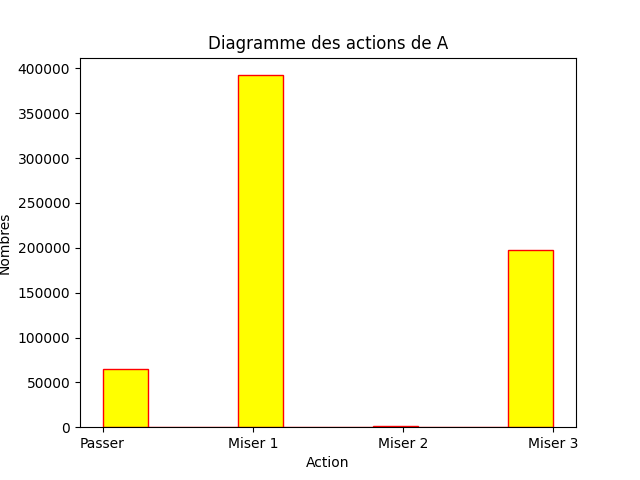
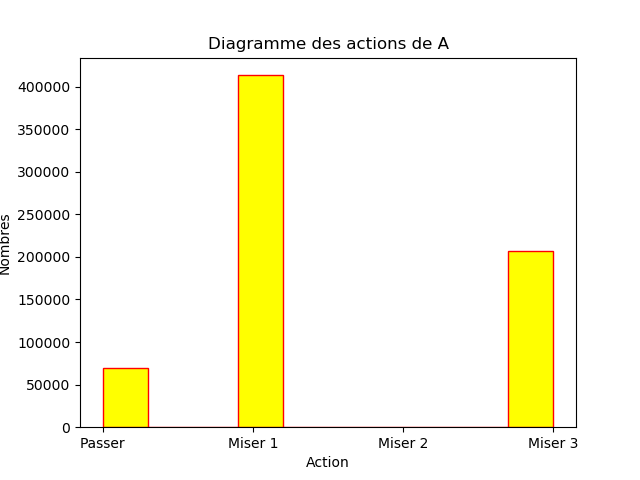
Graphiques sur l'évolution du système

diff --git a/Stats.py b/Stats.py
@@ -1,0 +1,110 @@
+#import Poker
+import matplotlib.pyplot as pyplot
+
+class table:
+	def __init__(self):
+		self.carte_alice=list()
+		self.carte_bob=list()
+		self.action_alice=list()
+		self.action_bob=list()
+		self.resultat=list()
+		self.nb_tours=0
+		self.nb_bluff=0
+	
+	def update(self, j, action_a, action_b, res):
+		self.nb_tours+=1
+		self.carte_alice.append(j.joueurA.carte)
+		self.carte_alice.append(j.joueurA.carte)
+		
+		if action_a==0:
+			action_b=-1
+		self.action_alice.append(action_a)
+		self.action_bob.append(action_b)
+		self.resultat.append(res)
+	
+	def fin_partie(self, bluff):
+		self.nb_bluff=bluff
+
+class tables:
+	def __init__(self,n):
+		self.nb_parties=n
+		self.parties=list()
+		self.nb_tours=list()
+		self.current_table=table()
+		self.bluff=list()
+		self.cadrage=list()
+		self.current=0
+		
+		self.init_cadrage()
+		
+	def update(self, j, action_a, action_b, res):
+		self.current_table.update(j, action_a, action_b, res)
+		
+	def fin_partie(self, bluff):
+		self.current_table.fin_partie(bluff)
+		self.parties.append(self.current_table)
+		self.current_table=table()
+	
+	def liste_simple(self, liste):
+		"""Transforme une liste de listes en liste simple"""
+		res=liste
+		while len(res)>1:
+			tmp=res[0]
+			del res[0]
+			res[0]=tmp+res[0]
+		return res[0]
+		
+	def init_cadrage(self):
+		for i in range(0,self.nb_parties):
+			self.cadrage.append(i)
+	
+	def calcul_nb_tours(self):
+		for i in range(0,self.nb_parties):
+			self.nb_tours.append(self.parties[i].nb_tours)
+	
+	def calcul_bluff(self):
+		for i in range(0,self.nb_parties):
+			self.bluff.append(float(self.parties[i].nb_bluff)/float(self.parties[i].nb_tours))
+	
+	def show_nb_tours(self):
+		self.calcul_nb_tours()
+		pyplot.scatter(self.cadrage, self.nb_tours)
+		pyplot.title("Tours nécessaires à l'élimination de Alice")
+		pyplot.xlabel('Parties jouées')
+		pyplot.ylabel('Nombre de tours')
+		pyplot.xticks([0, self.nb_parties/2, self.nb_parties])
+		pyplot.savefig("ressources/stats/durée_jeu.png")
+		pyplot.show()
+	
+	def show_nb_bluffs(self):
+		self.calcul_bluff()
+		pyplot.plot(self.bluff)
+		pyplot.title("Evolution du nombre de bluffs")
+		pyplot.xlabel('Parties jouées')
+		pyplot.ylabel('Nombre de bluffs')
+		pyplot.xticks([0, self.nb_parties/2, self.nb_parties])
+		pyplot.savefig("ressources/stats/nombre_bluffs.png")
+		pyplot.show()
+		
+	def show_actions_alice(self, i):
+		pyplot.hist(self.parties[i].action_alice)
+		pyplot.title("Actions de Alice")
+		pyplot.xlabel('Action')
+		pyplot.ylabel('Nombres')
+		pyplot.xticks([0, 1, 2, 3], ["Passer", "Miser 1", "Miser 2", "Miser 3"])
+		pyplot.savefig("ressources/stats/alice_"+str(i+1)+".png")
+		pyplot.show()
+		
+	def show_actions_bob(self, i):
+		pyplot.hist(self.parties[i].action_bob)
+		pyplot.title("Actions de Bob")
+		pyplot.xlabel('Action')
+		pyplot.ylabel('Nombres')
+		pyplot.xticks([0, 1, 2], ["Alice Passe", "Passer", "Suivre"])
+		pyplot.savefig("ressources/stats/bob_"+str(i+1)+".png")
+		pyplot.show()
+			
+def main():
+	t=table()
+	t.update(Poker.Jeu(),1,1,1)
+	print("ok")

diff --git a/Poker.py b/Poker.py
@@ -5,6 +5,7 @@ import random
 from time import time
 import matplotlib.pyplot as plt
 import numpy as np
+import Stats
 
 import pygame # a supprimer
 	
@@ -151,6 +152,8 @@ class Jeu:
 		alpha = 0.0001
 		gamma = 0.001
 		epsilon = 0
+		
+		res=0
 	### Distribution des cartes ###
 		acb = 2
 		self.tirer()
@@ -167,6 +170,7 @@ class Jeu:
 			miseB = self.joueurB.ActionsVal(acb, actionA)
 			if(miseB == 0):### B Passe ###
 				self.joueurA.ActualiserSolde(self.pot)
+				res=1
         
 			else:### B suis ###
 				self.pot += miseB
@@ -174,17 +178,23 @@ class Jeu:
 			### On retourne les cartes ###
 				if (self.carteA > self.carteB):
 					self.joueurA.ActualiserSolde(self.pot)
+					res=1
 				elif (self.carteB > self.carteA):
 					self.joueurB.ActualiserSolde(self.pot)
+					res=-1
 				else:
 					self.joueurA.ActualiserSolde(actionA + 1)
 					self.joueurB.ActualiserSolde(miseB + 1)
+					res=0
             
 		else:
 			miseB=0
 			self.joueurB.ActualiserSolde(self.pot)
+			res=-1
 			
 		"""print("Pot: " + str(self.pot))		print("Carte A : " + str(self.joueurA.carte))		print("Carte B : " + str(self.joueurB.carte))		print("Mise A : " + str(actionA)) print("Mise B : " + str(actionB))print("Solde A: " + str(self.joueurA.solde))print("Solde B: " + str(self.joueurB.solde))print(" ")"""
+		
+		stats.update(self, ac, acb, 0)
 		
 		###trucs de qlearning pour le joueur a###
 		if(self.joueurA.carte <= 4 and ac >= 2):
@@ -324,28 +334,32 @@ class Jeu:
 		plt.savefig("ressources/Analyse/JoueurALigne")
 		plt.show()	
 		
-		
-			
-def main():
-	
+stats=Stats.tables(1000)	
+def main():		
 	j=Jeu()
-	j.joueurA.init_grille()
-	j.joueurB.init_grille()
-	for i in range (0, 50) : 
-		print("Partie: " + str(i))
-		j.jeu_simple_boucle_qlearning(i)
+	#j.joueurA.init_grille()
+	#j.joueurB.init_grille()
+	for i in range (0, stats.nb_parties):
+		j.jeu_simple_boucle_qlearning(0)
 		j.reset_partie()
+		stats.fin_partie(j.countBluff)
 	
 	j.joueurA.grid = np.around(j.joueurA.grid, 5)	
 	j.joueurB.grid = np.around(j.joueurB.grid, 5)
-	j.joueurA.ecrit_grille()
-	j.joueurB.ecrit_grille()
-	j.graphhistA()
-	j.graphhistB()
+	#j.joueurA.ecrit_grille()
+	#j.joueurB.ecrit_grille()
+	
+	for i in range(0,6):
+		stats.show_actions_alice(int(i*stats.nb_parties/5-1))
+		stats.show_actions_bob(int(i*stats.nb_parties/5-1))
+
+	stats.show_nb_bluffs()
+	stats.show_nb_tours()
+	#j.graphhistA()
+	#j.graphhistB()
 	print("Bluff"+ str(j.countBluff)+ "sur" + str(j.totalPlay) )
 	
 	#j.graphlineA()
-	
 	
 	
 main()
